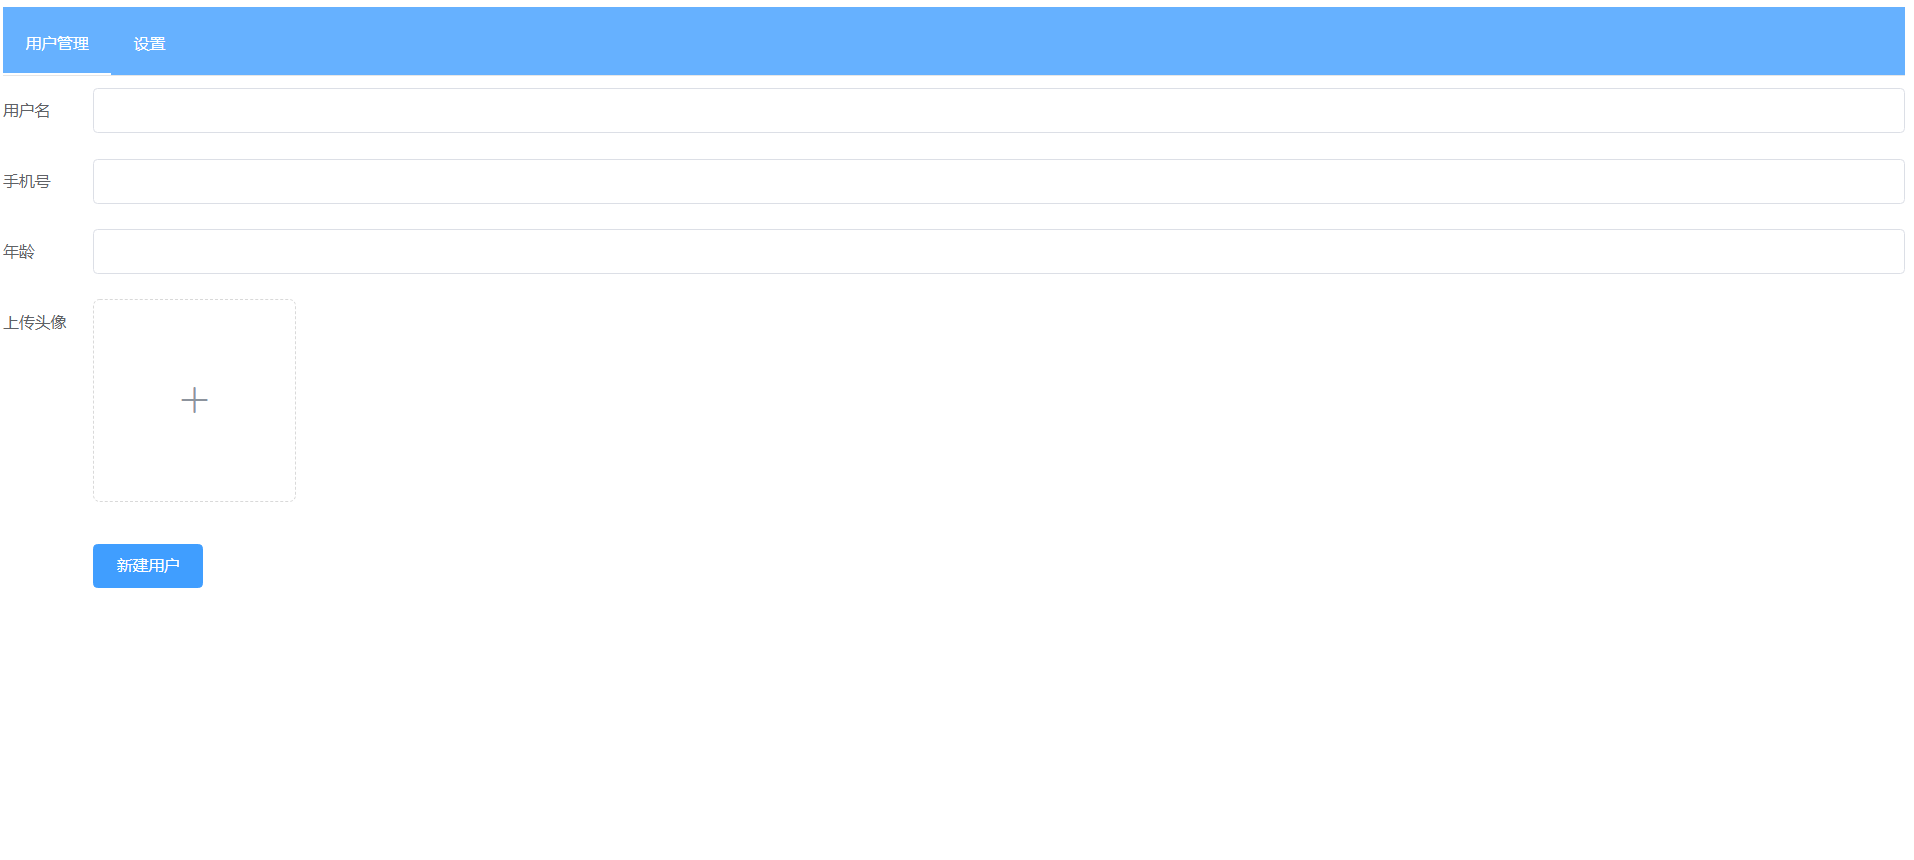
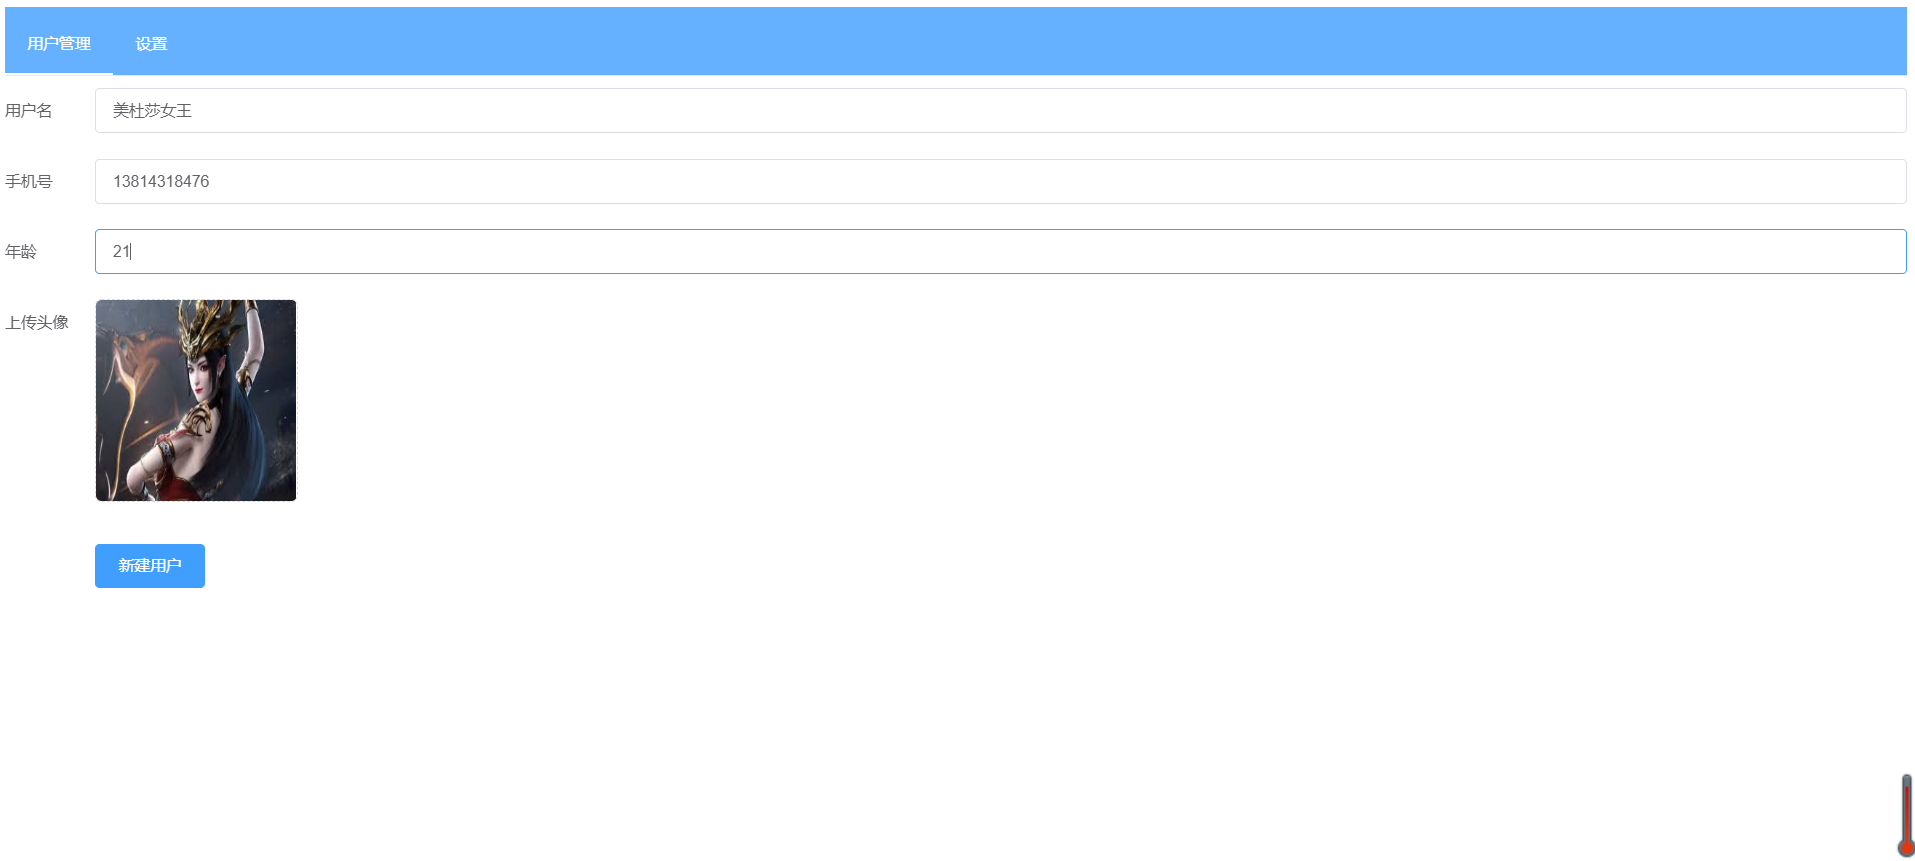
修改上传图片接口，完善上传图片功能

diff --git a/src/components/updateUser.vue b/src/components/updateUser.vue
@@ -13,8 +13,9 @@
       <el-form-item label="头像">
         <el-upload
           class="avatar-uploader"
-          name="smfile"
-          action="https://sm.ms/api/upload"
+          name="file"
+          action="http://localhost:8080/user/upload"
+          :headers="headers"
           :show-file-list="false"
           :on-success="handleAvatarSuccess"
           :before-upload="beforeAvatarUpload"
@@ -62,9 +63,12 @@ export default {
     return {
       userId: "",
       userName: "",
-      avatar:"",
+      avatar: "",
       tel: "",
-      age:""
+      age: "",
+      headers: {
+        Authorization: sessionStorage.getItem("STORAGE_TOKEN")
+      }
     };
   },
   created() {
@@ -96,8 +100,15 @@ export default {
         }
       });
     },
-    handleAvatarSuccess(res, file) {
-      this.avatar = URL.createObjectURL(file.raw);
+    handleAvatarSuccess(response, file) {
+      //这里response就是返回的数据
+      console.log(response);
+      if (response.errorCode == 0) {
+        this.avatar = response.data;
+        this.$message.success(response.message);
+      } else {
+        this.$message.error(response.message);
+      }
     },
     beforeAvatarUpload(file) {
       const limit = file.size / 1024 / 1024 < 5;

diff --git a/src/components/addUser.vue b/src/components/addUser.vue
@@ -13,8 +13,9 @@
       <el-form-item label="上传头像">
         <el-upload
           class="avatar-uploader"
-          name="smfile"
-          action="https://sm.ms/api/upload"
+          name="file"
+          action="http://localhost:8080/user/upload"
+          :headers="headers"
           :show-file-list="false"
           :on-success="handleAvatarSuccess"
           :before-upload="beforeAvatarUpload"
@@ -64,7 +65,10 @@ export default {
       userName: "",
       tel: "",
       age: "",
-      imageUrl: ""
+      imageUrl: "",
+      headers: {
+        Authorization: sessionStorage.getItem("STORAGE_TOKEN")
+      }
     };
   },
   methods: {
@@ -87,8 +91,13 @@ export default {
         }
       });
     },
-    handleAvatarSuccess(res, file) {
-      this.imageUrl = URL.createObjectURL(file.raw);
+    handleAvatarSuccess(response, file) {
+      if (response.errorCode == 0) {
+        this.imageUrl = response.data;
+        this.$message.success(response.message);
+      } else {
+        this.$message.error(response.message);
+      }
     },
     beforeAvatarUpload(file) {
       const limit = file.size / 1024 / 1024 < 5;
